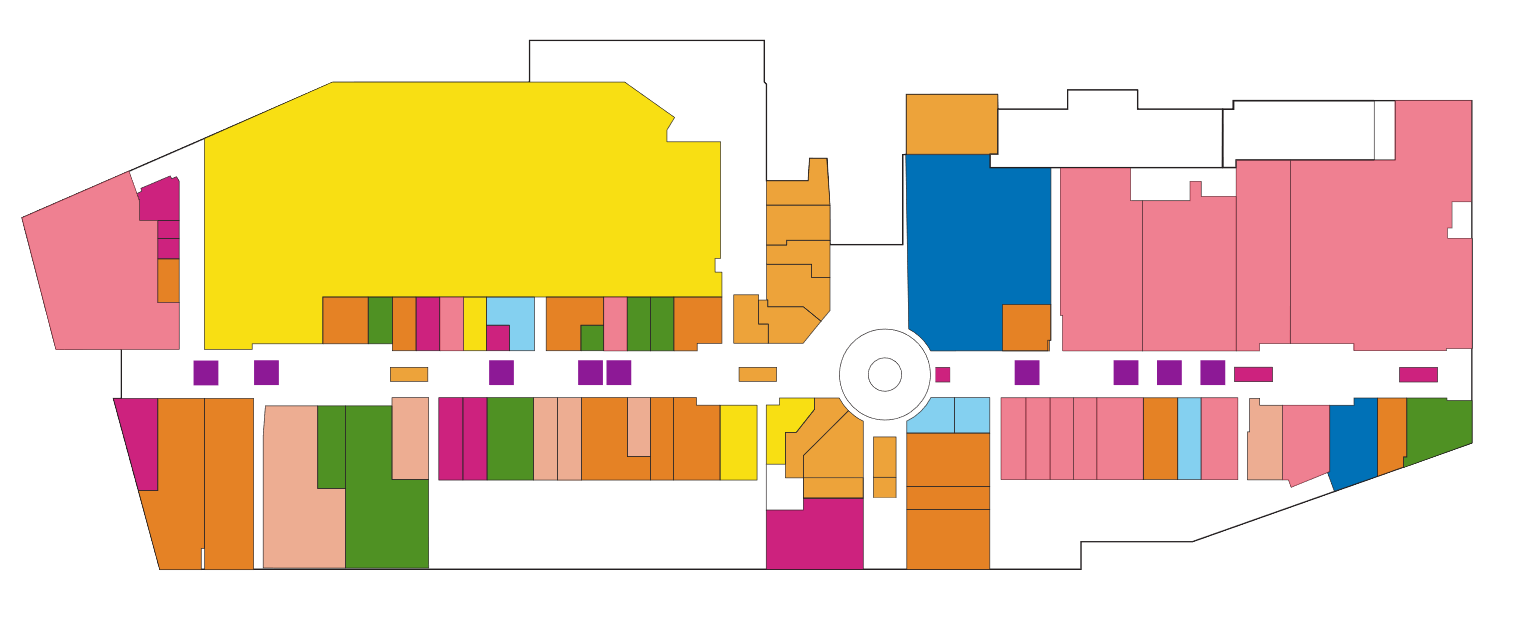
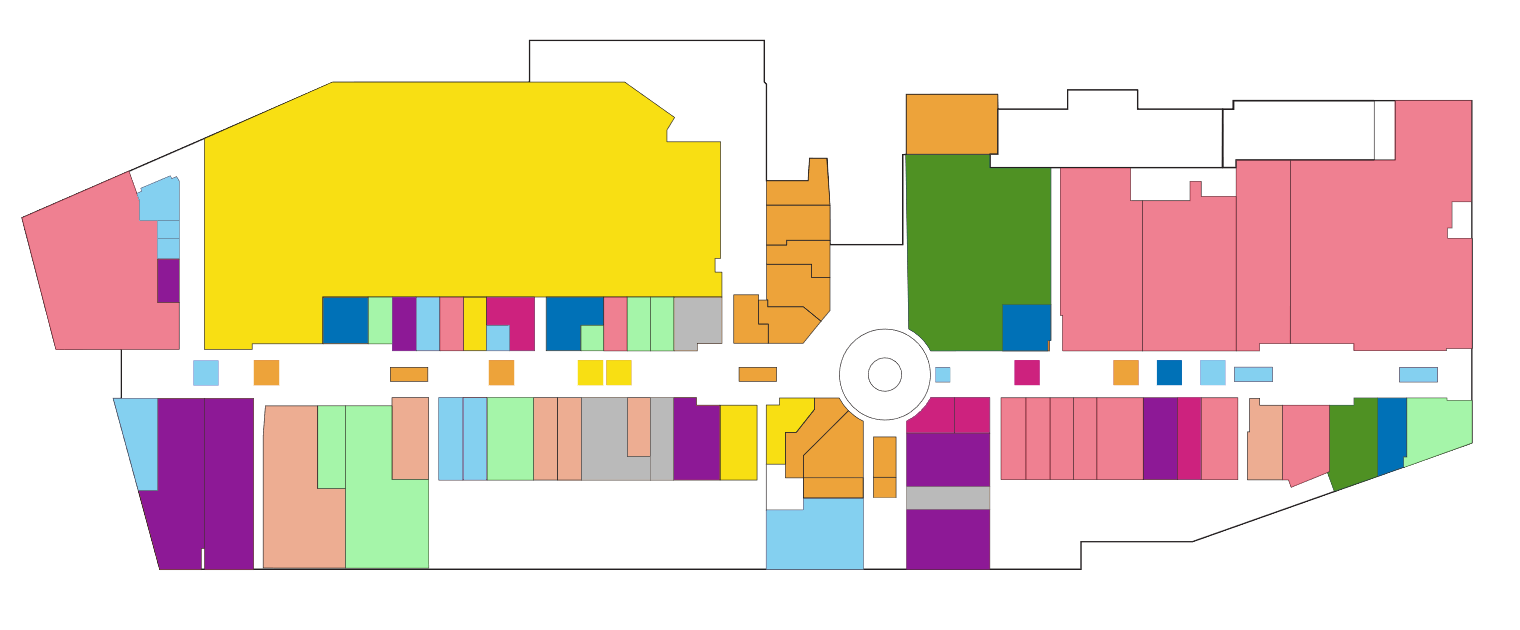
Vankovka colors corrected

diff --git a/nakupne_centra/App.xaml b/nakupne_centra/App.xaml
@@ -66,13 +66,13 @@
             <Setter Property="Background" Value="#f8df13"/>
         </Style>
         <Style x:Key="CategoryBooksGiftsToysStyle" TargetType="Border">
-            <Setter Property="Background" Value="#e58225"/>
+            <Setter Property="Background" Value="#8d1996"/>
         </Style>
         <Style x:Key="CategoryElectronicsStyle" TargetType="Border">
             <Setter Property="Background" Value="#0071b7"/>
         </Style>
         <Style x:Key="CategoryJewelleryStyle" TargetType="Border">
-            <Setter Property="Background" Value="#84d0f0"/>
+            <Setter Property="Background" Value="#cd227e"/>
         </Style>
         <Style x:Key="CategoryGastronomyStyle" TargetType="Border">
             <Setter Property="Background" Value="#eda33a"/>
@@ -84,10 +84,10 @@
             <Setter Property="Background" Value="#4f9123"/>
         </Style>
         <Style x:Key="CategoryServicesStyle" TargetType="Border">
-            <Setter Property="Background" Value="#cd227e"/>
+            <Setter Property="Background" Value="#84d0f0"/>
         </Style>
         <Style x:Key="CategoryHomeStyle" TargetType="Border">
-            <Setter Property="Background" Value="#8d1996"/>
+            <Setter Property="Background" Value="#bababa"/>
         </Style>
     </Application.Resources>
 </Application>
